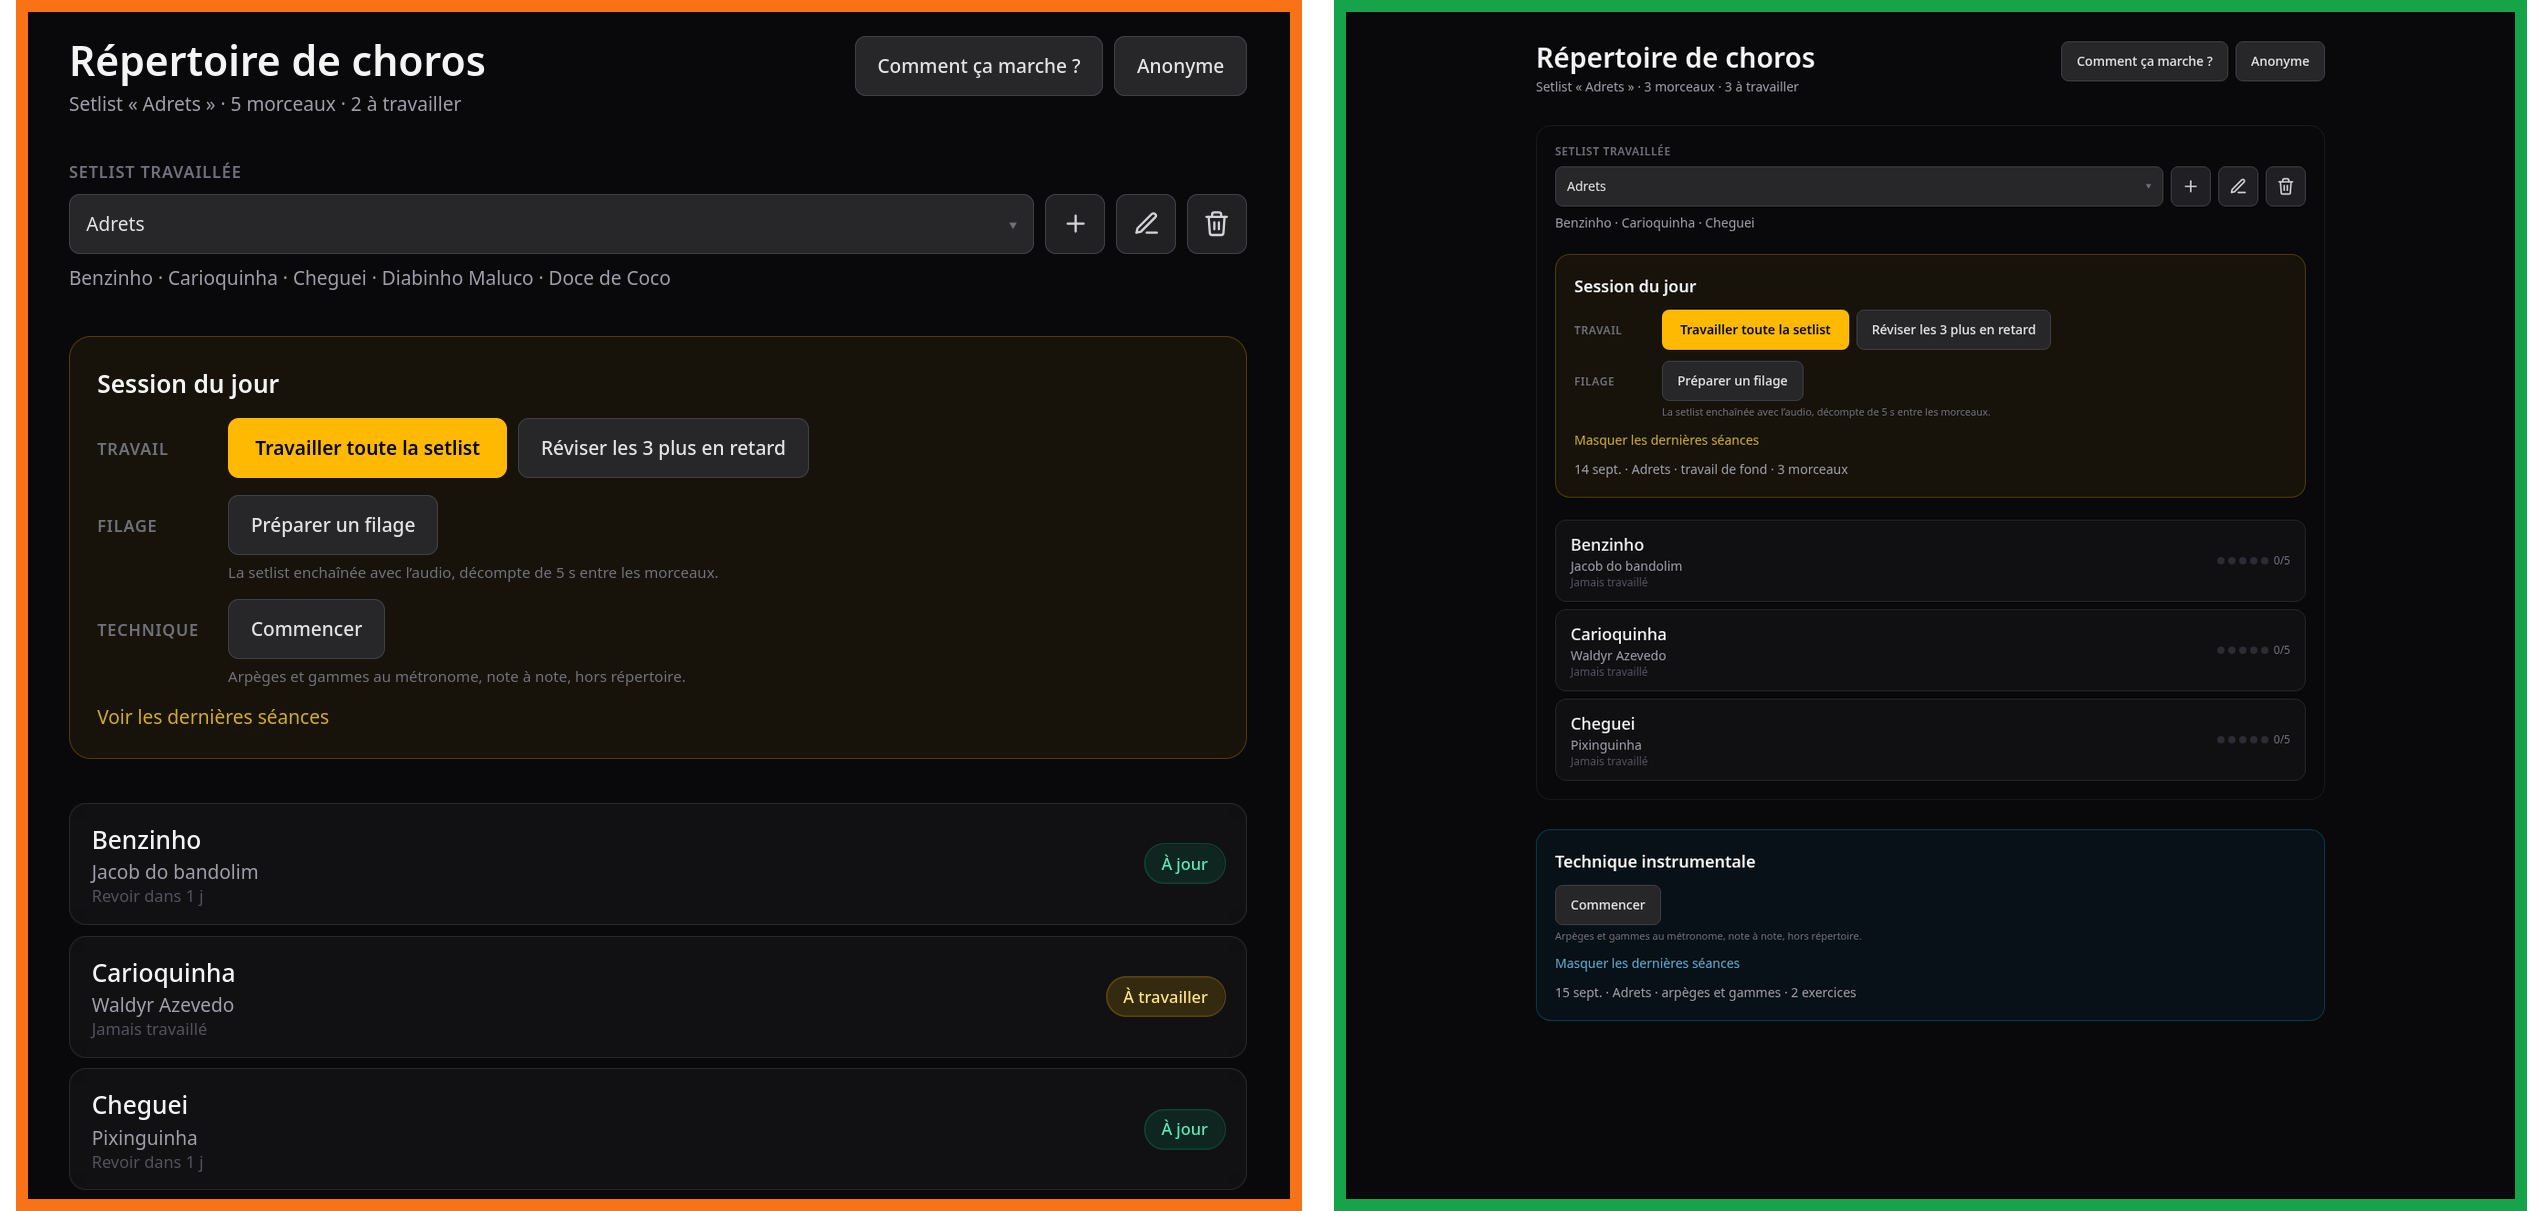
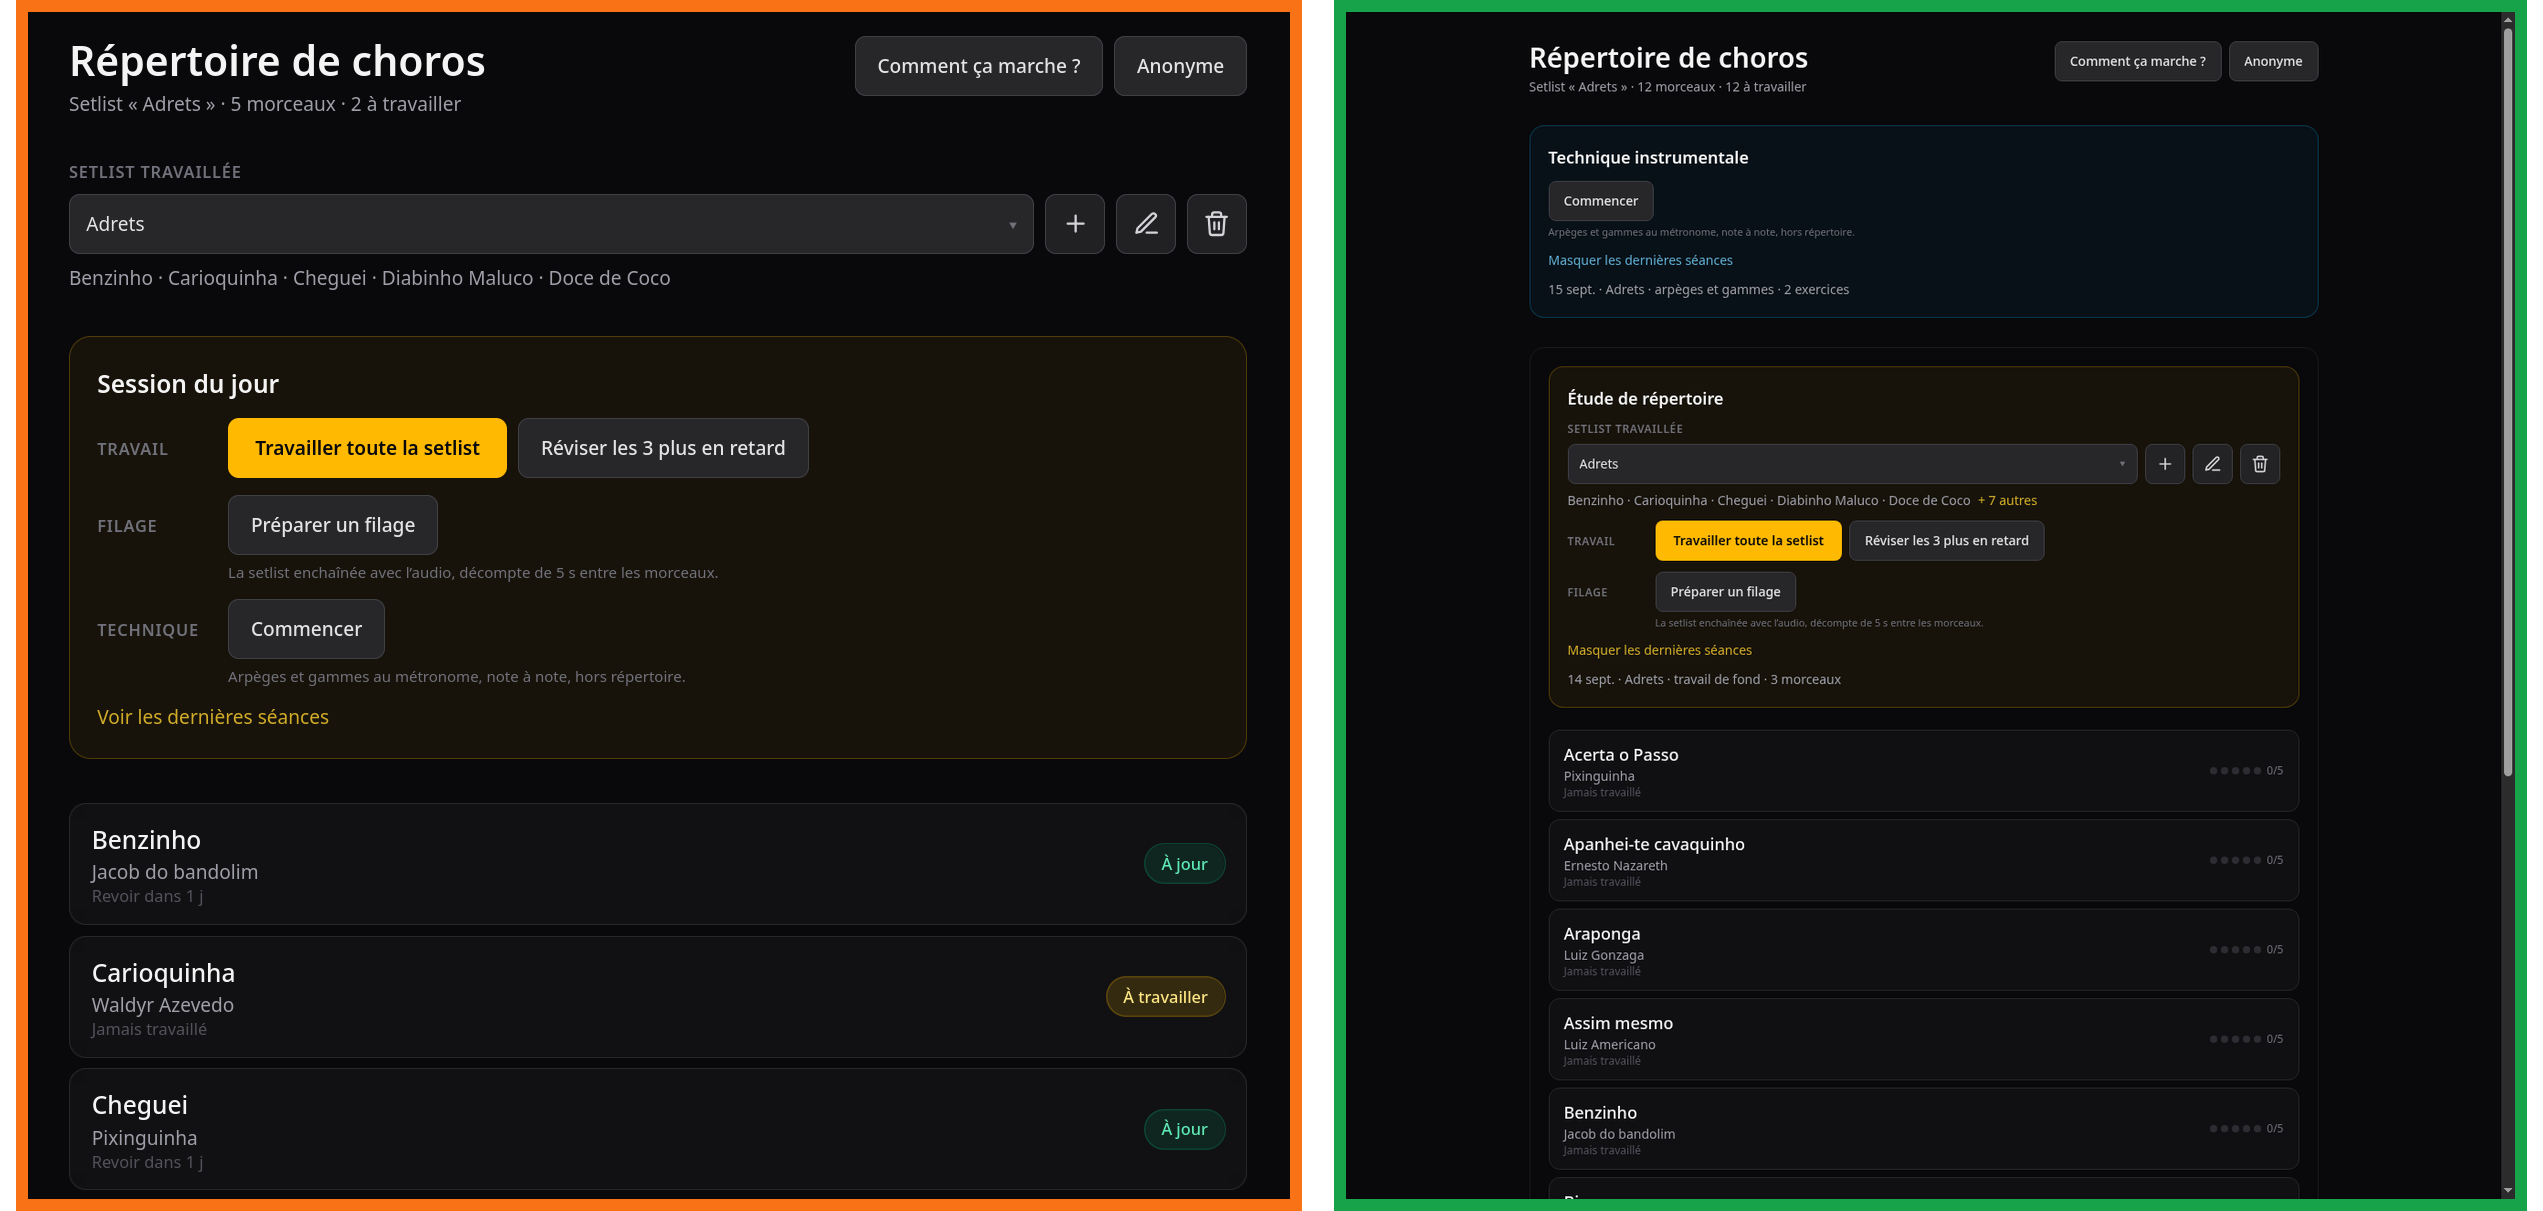
Remonte la technique au-dessus du répertoire, fusionne setlist et étude
Retours sur la PR #68 : la carte technique se retrouvait invisibilisée en
bas de page quand le répertoire comptait beaucoup de morceaux ; elle passe
donc avant le bloc répertoire. « Session du jour » devient « Étude de
répertoire », qui intègre maintenant aussi le sélecteur/la création de
setlist (auparavant une section à part au-dessus).

diff --git a/web/src/views/dashboard.ts b/web/src/views/dashboard.ts
@@ -440,7 +440,7 @@ export function renderDashboard(
   }
 
   const scopeRow = el(
-    'section',
+    'div',
     { class: 'flex flex-col gap-2' },
     el('p', { class: ui.label }, 'Setlist travaillée'),
     el(
@@ -500,7 +500,8 @@ export function renderDashboard(
       );
 
     const rows: HTMLElement[] = [
-      el('h2', { class: 'text-lg font-semibold text-zinc-100' }, 'Session du jour'),
+      el('h2', { class: 'text-lg font-semibold text-zinc-100' }, 'Étude de répertoire'),
+      scopeRow,
       sessionRow(
         'Travail',
         el('div', { class: 'flex flex-wrap gap-2' }, deepButton, urgentButton),
@@ -683,15 +684,14 @@ export function renderDashboard(
         el('div', { class: 'flex flex-wrap gap-2' }, aboutLink, accountLink),
       ),
 
+      techniqueSlot,
+
       el(
         'div',
         { class: 'flex flex-col gap-6 rounded-2xl border border-zinc-800/60 p-5' },
-        scopeRow,
         sessionSlot,
         el('section', { class: 'flex flex-col gap-4' }, list),
       ),
-
-      techniqueSlot,
     ),
   );
 
